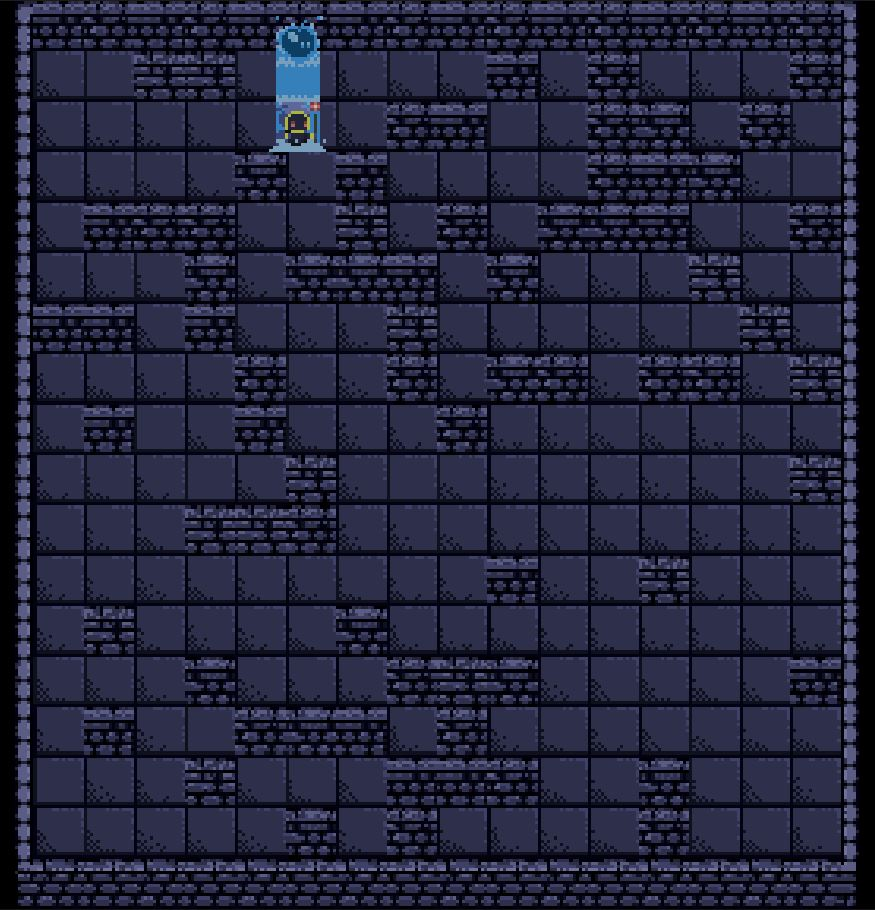
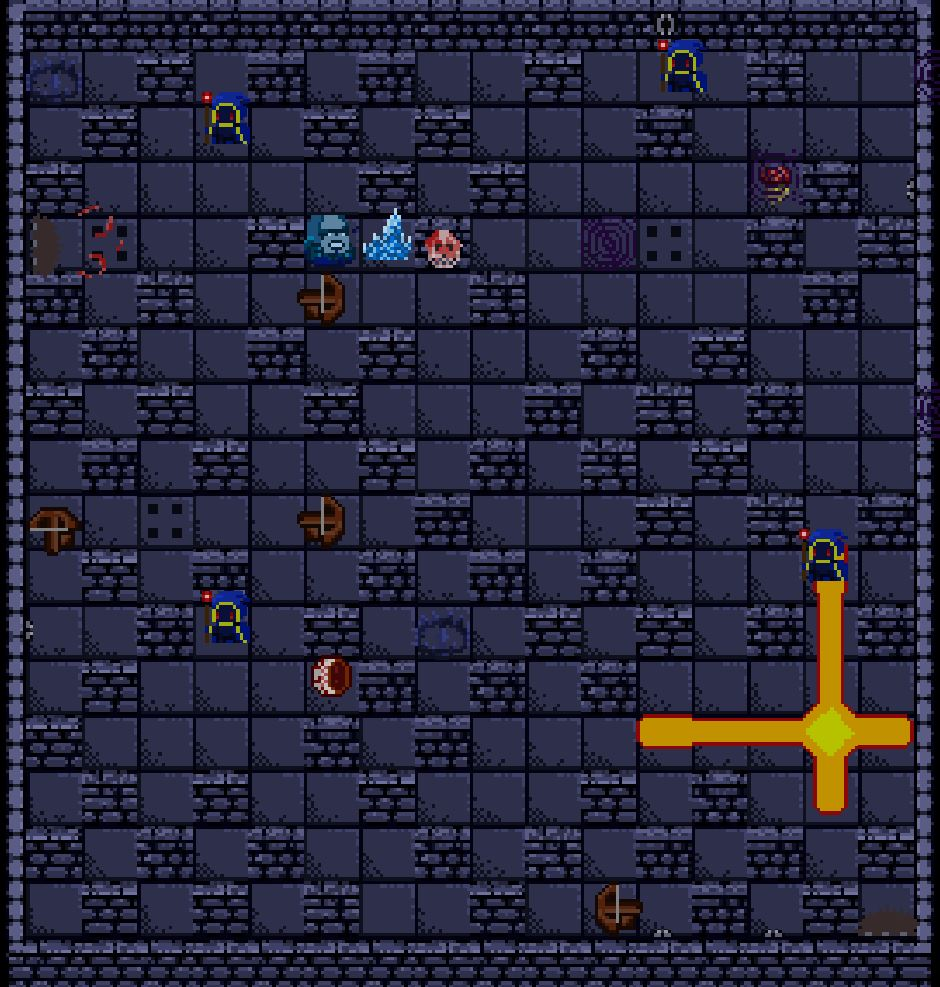
Update screenshots and README.md file

diff --git a/README.md b/README.md
@@ -25,20 +25,19 @@ Stack:
 
 - C#
 - Unity - 2020.2.3f1
-- Tilemap
-- Piskel (pixel art)
+- Piskel
 
 ## Features
 
 - Random level generation
-- Five souls with different abilities
+- Five souls with different abilities (fire, ice, poisonous, water and evil eye)
+- Ten environment hazards (ballista, bear trap, crumbling floor, destructible wall, flamethrower, moving wall, poison arrow launcher, portal, sliding saw and spikes)
 
 ## To Do
 
 - Game Loop
 - AI Enemies
-- Traps
-- Different Game Mods
+- Local Coop
 
 ## Status
 
@@ -50,9 +49,9 @@ Project is: in progess
 
 Use Souls to defeat your enemies!
 
-![Souls with different abilitites](./Screenshots/souls.jpg)
+![Souls with different abilitites](./Screenshots/traps.jpg)
 
-Use five souls with different abilities for this!
+Avoid deadly traps!
 
 ![Randomly generated levels](./Screenshots/random.jpg)
 
